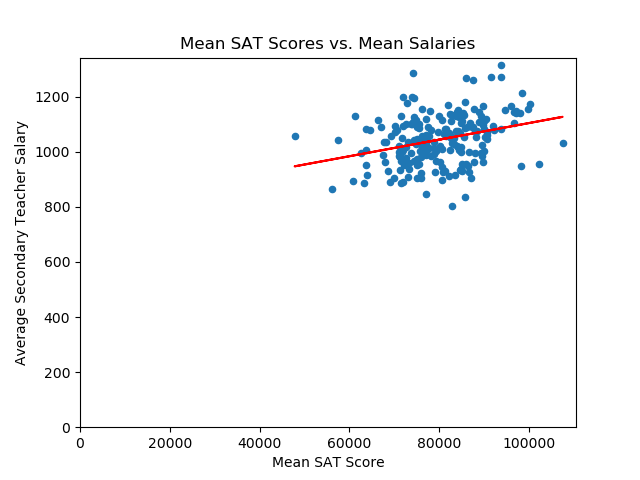
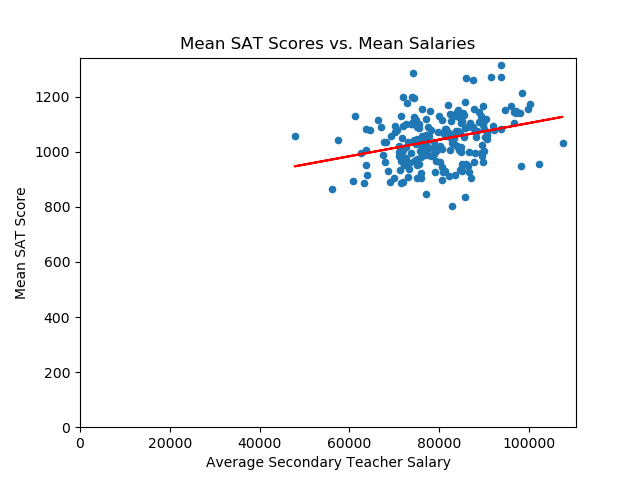
swap

Changed region(s): [[0.0, 0.375, 0.0625, 0.75], [0.3125, 0.9375, 0.7188, 1.0], [0.0, 0.25, 0.0625, 0.3438]]

diff --git a/combine.py b/combine.py
@@ -37,8 +37,8 @@ ax = combined_df.plot.scatter(x='Average Salary', y='Total Score Mean')
 ax.set_xlim(xmin = 0)
 ax.set_ylim(bottom = 0)
 plt.title('Mean SAT Scores vs. Mean Salaries')
-plt.xlabel('Mean SAT Score')
-plt.ylabel('Average Secondary Teacher Salary')
+plt.ylabel('Mean SAT Score')
+plt.xlabel('Average Secondary Teacher Salary')
 
 #plot regression line
 plt.plot(X, Y_pred, color='red')
